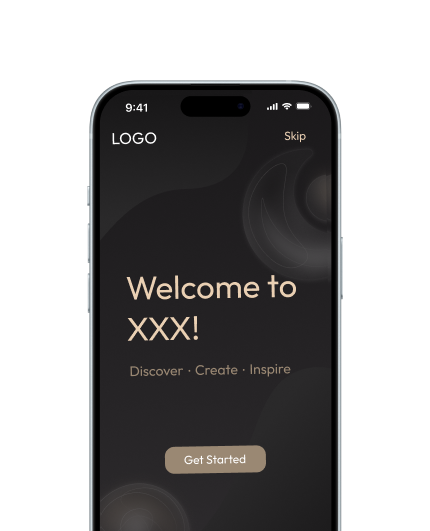
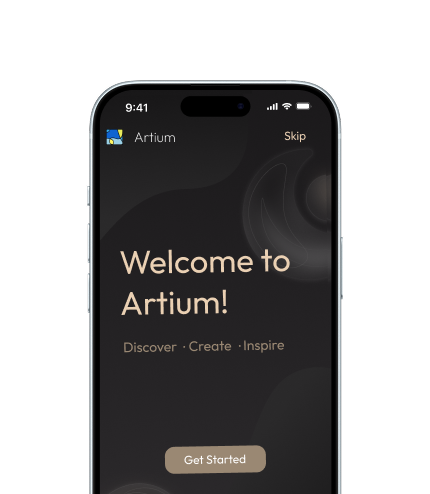
feat: update images in SmallScreen component and replace outdated images

diff --git a/nst-fe/src/components/SmallScreen.tsx b/nst-fe/src/components/SmallScreen.tsx
@@ -11,9 +11,9 @@ export default function SmallScreen() {
 				<article className="absolute bottom-0 flex flex-col gap-36 h-4/5 w-full items-center pt-48 px-5">
 					<section className="text-skin text-xl">
 						<p className="mb-5">
-							This is best experienced on the app
+							Artium is best experienced on the app
 						</p>
-						<p>Download Now</p>
+						<p>Coming Soon!</p>
 					</section>
 					<section className="w-1/2 h-full">
 						<Image
@@ -30,9 +30,9 @@ export default function SmallScreen() {
 				<article className="flex gap-10 items-center h-full">
 					<section className="w-1/2 h-1/2 text-3xl text-skin">
 						<p className="mb-14">
-							This is best experienced on the app
+							Artium is best experienced on the app
 						</p>
-						<p>Download Now</p>
+						<p>Coming Soon!</p>
 					</section>
 					<section className="w-1/2 h-1/2">
 						<Image
